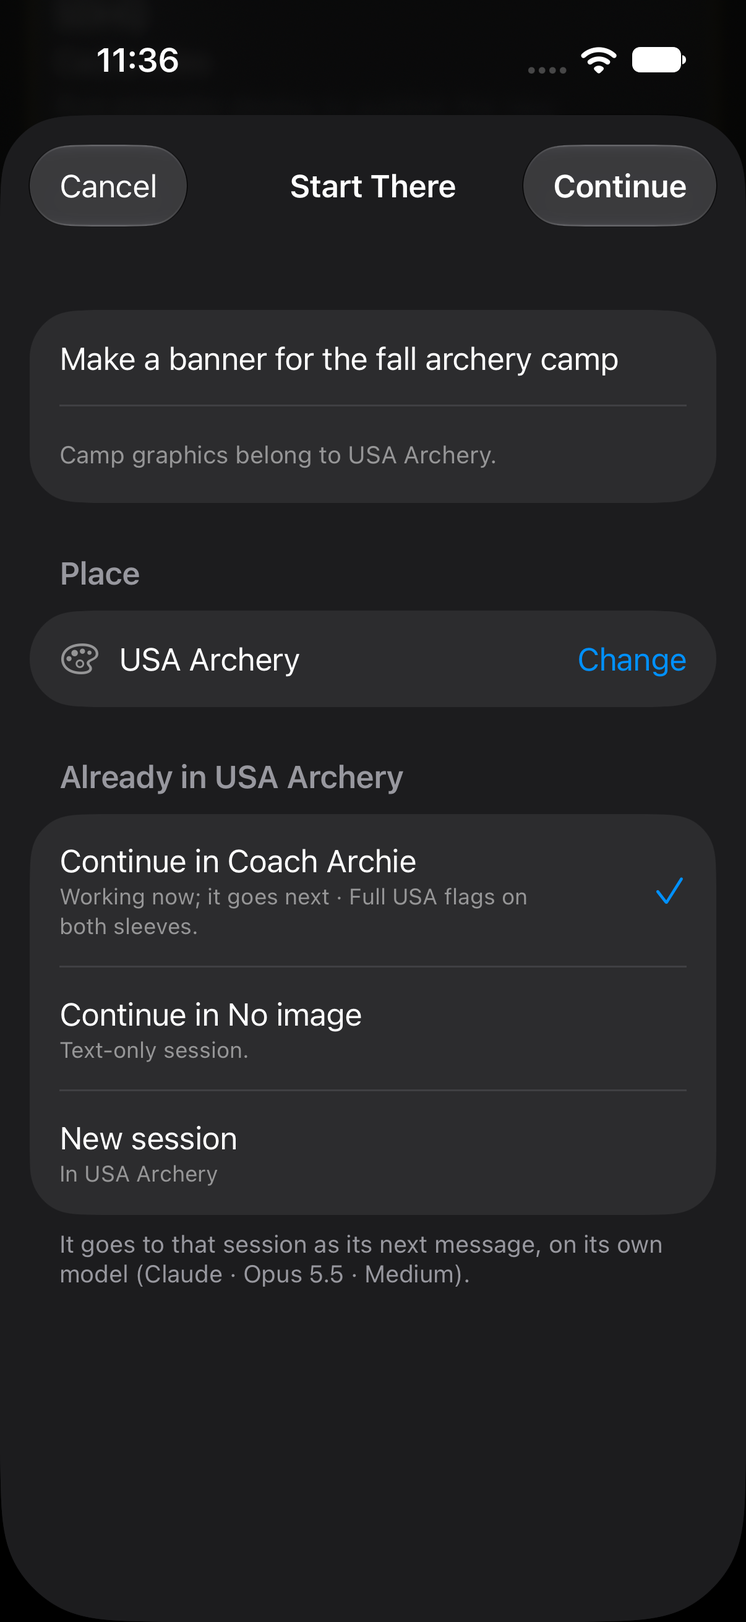
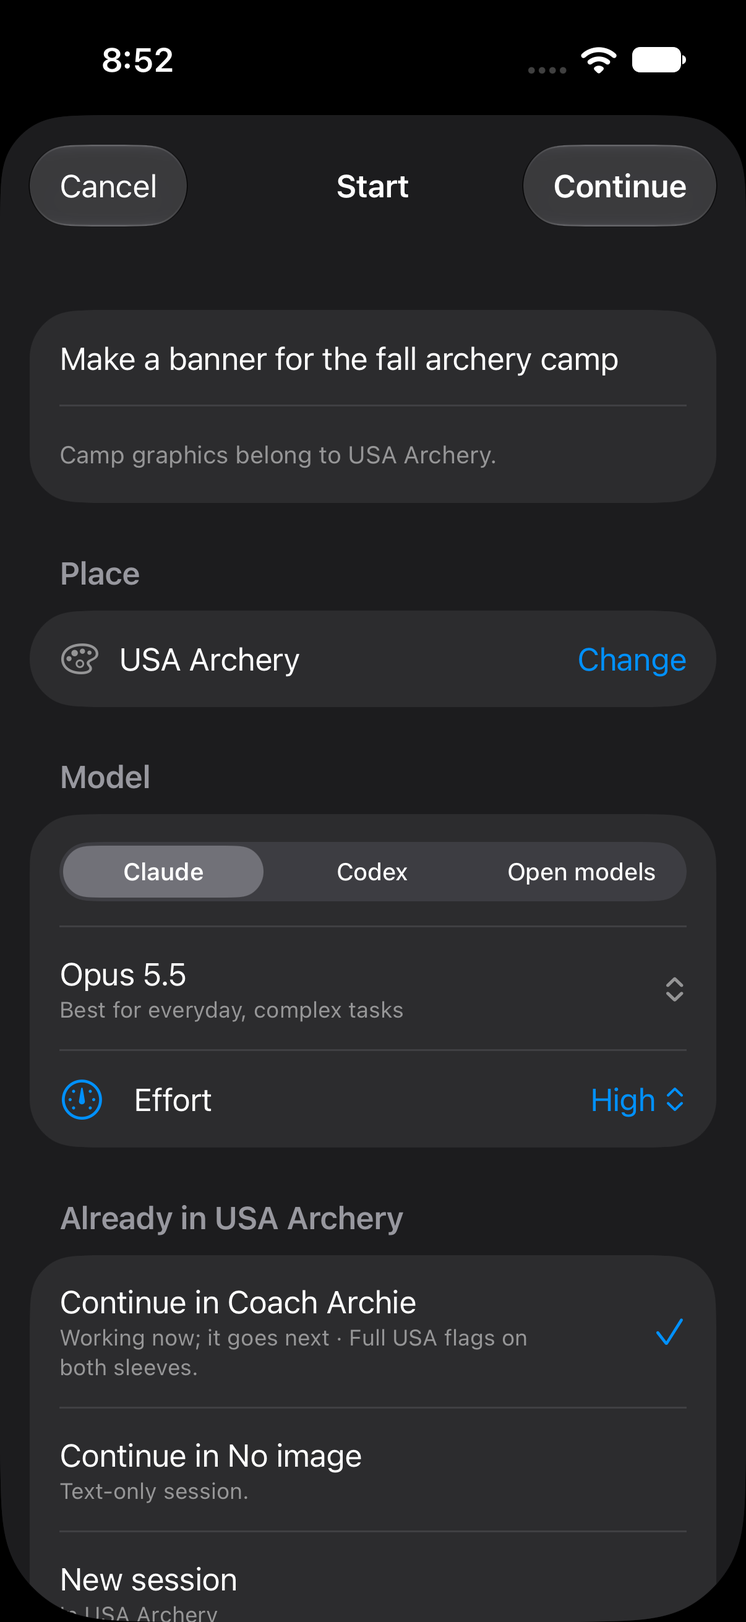
Desk Start: choose the model when continuing too; tests and screenshots
Core: the Start step always shows the provider, model and effort (the
chosen session's own until one is picked); continuing on another model
switches that session before the request is sent.

Tests: test-desk (continueChat with a model switches the session first,
409 for another agent while it works, options for a session untouched,
old bodies unchanged), mac-desk (model above the sessions, follows the
choice, hand pick stays, Continue sends the model), mobile-home-nav
(model row above the sessions, default follows the session, picking one
while continuing sends model + continueChat).
Screenshots: design/desk/phone-start-model.png, mac-start-model.png;
phone-start-sheet.png refreshed.

diff --git a/tests/mobile-home-nav/HomeNavTests.swift b/tests/mobile-home-nav/HomeNavTests.swift
@@ -819,9 +819,9 @@ final class HomeNavTests: XCTestCase {
   XCTAssertEqual(calls.last?["decision"] as? String, "approvedForSession", "the decision goes along")
   XCTAssertEqual(calls.last?["item"] as? String, deskID("approval").lowercased())
  }
- /// Start There: its step shows the place, the sessions already there doing the same work (a
- /// clear match chosen) and New session. Continue sends the request to that session; the Desk
- /// stays, with a note to open it.
+ /// Start There: its step shows the place, the model, the sessions already there doing the same
+ /// work (a clear match chosen) and New session. The model follows the session chosen. Continue
+ /// sends the request to that session; the Desk stays, with a note to open it.
  @MainActor func testDeskStartThere() async throws {
   try await fixture("reset")
   let app=deskApp(); app.launch()
@@ -830,15 +830,40 @@ final class HomeNavTests: XCTestCase {
   XCTAssertTrue(start.waitForExistence(timeout:5)); reveal(start, app); start.tap()
   XCTAssertTrue(app.navigationBars["Start"].waitForExistence(timeout:5), "Start There opens its step, not a session")
   let archie=app.buttons["desk-thread-"+deskID("Coach Archie")], other=app.buttons["desk-thread-963CA311-2496-5A83-9807-3AE28F7E5FB5"], fresh=app.buttons["desk-thread-new"]
-  XCTAssertTrue(archie.waitForExistence(timeout:8) && other.exists && fresh.exists, "Continue in each session like it, and New session")
-  XCTAssertTrue(app.staticTexts["Continue in Coach Archie"].exists && app.staticTexts["USA Archery"].exists, "named, in the place shown")
+  XCTAssertTrue(archie.waitForExistence(timeout:8), "Continue in the session like it")
+  // The model first, under the place: the chosen session's own.
+  let modelRow=app.buttons["model-current"]
+  XCTAssertTrue(modelRow.waitForExistence(timeout:5), "the model shows when continuing too")
+  XCTAssertLessThan(modelRow.frame.maxY, archie.frame.minY, "under the place, above the sessions")
+  let own=expectation(for:NSPredicate(format:"label == %@","Model: Opus 5.5, Best for everyday, complex tasks"),evaluatedWith:modelRow)
+  await fulfillment(of:[own],timeout:5)
+  XCTAssertTrue(app.buttons["desk-start-effort"].exists, "and its effort, in one row")
+  let asked=try await newChatQueries().last
+  XCTAssertEqual(asked?["chat"]?.lowercased(), deskID("Coach Archie").lowercased(), "asked for as that session runs")
+  capture("phone-start-sheet", app)
+  // The sessions below it (the last may sit under the fold).
+  reveal(fresh, app)
+  XCTAssertTrue(other.exists && fresh.exists, "Continue in each session like it, and New session")
+  XCTAssertTrue(app.staticTexts["Continue in Coach Archie"].exists, "named")
   XCTAssertLessThan(archie.frame.maxY, fresh.frame.minY, "Continue in first")
   XCTAssertTrue(archie.isSelected && !fresh.isSelected, "the clear match is chosen")
-  XCTAssertFalse(app.buttons["model-current"].exists, "continuing keeps that session's model")
+  let continueNote=app.staticTexts["desk-start-continue-note"]
+  reveal(continueNote, app)
+  XCTAssertTrue(continueNote.waitForExistence(timeout:5) && continueNote.label.contains("on its own model (Opus 5.5 · High)"), continueNote.label)
+  // Choosing another session: the model follows it.
+  other.tap()
+  try await Task.sleep(for:.milliseconds(800))
+  let followed=try await newChatQueries().last
+  XCTAssertEqual(followed?["chat"]?.lowercased(), "963CA311-2496-5A83-9807-3AE28F7E5FB5".lowercased(), "the model follows the session chosen")
+  XCTAssertTrue(continueNote.label.contains("GPT-6.1-Sol"), continueNote.label)
+  archie.tap()
+  let back=expectation(for:NSPredicate(format:"label CONTAINS %@","on its own model (Opus 5.5 · High)"),evaluatedWith:continueNote)
+  await fulfillment(of:[back],timeout:5)
+  revealUp(modelRow, app)
+  XCTAssertTrue(app.staticTexts["USA Archery"].exists && modelRow.label == "Model: Opus 5.5, Best for everyday, complex tasks", "in the place shown, back on its own model")
   XCTAssertEqual(app.buttons["desk-start-confirm"].label, "Continue")
   let threads=try await deskCalls().last { ($0["action"] as? String)=="threads" }
   XCTAssertEqual(threads?["id"] as? String, deskID("banner").lowercased()); XCTAssertEqual((threads?["place"] as? String)?.lowercased(), uuid("studio").lowercased(), "asked in the place shown")
-  capture("phone-start-sheet", app)
   app.buttons["desk-start-confirm"].tap()
   let note=startedNote(app)
   XCTAssertTrue(note.waitForExistence(timeout:8), "the Desk notes it")
@@ -857,6 +882,49 @@ final class HomeNavTests: XCTestCase {
   note.coordinate(withNormalizedOffset:CGVector(dx:0.93,dy:0.5)).tap()
   XCTAssertTrue(app.staticTexts["Hi! This is Coach Archie."].waitForExistence(timeout:10), "Open opens it")
  }
+ /// Continuing on another model: picked in the step, it stays when the choice changes, the
+ /// footer says the session switches, and Continue sends the model with the session.
+ @MainActor func testDeskContinuePicksModel() async throws {
+  try await fixture("reset")
+  let app=deskApp(); app.launch()
+  XCTAssertTrue(app.buttons[approve].waitForExistence(timeout:20)); deskColumn("todo",app)
+  let start=app.buttons["desk-start-"+deskID("banner")]
+  XCTAssertTrue(start.waitForExistence(timeout:5)); reveal(start, app); start.tap()
+  let archie=app.buttons["desk-thread-"+deskID("Coach Archie")], fresh=app.buttons["desk-thread-new"]
+  XCTAssertTrue(archie.waitForExistence(timeout:8) && archie.isSelected, "continuing the clear match")
+  let modelRow=app.buttons["model-current"]
+  let own=expectation(for:NSPredicate(format:"label == %@","Model: Opus 5.5, Best for everyday, complex tasks"),evaluatedWith:modelRow)
+  await fulfillment(of:[own],timeout:5)
+  modelRow.tap()
+  XCTAssertTrue(modelItem("Sonnet 5",app).waitForExistence(timeout:5), "the menu lists the models")
+  modelItem("Sonnet 5",app).tap()
+  let picked=expectation(for:NSPredicate(format:"label == %@","Model: Sonnet 5, Efficient for routine tasks"),evaluatedWith:modelRow)
+  await fulfillment(of:[picked],timeout:5)
+  let query=try await newChatQueries().last
+  XCTAssertEqual(query?["chat"]?.lowercased(), deskID("Coach Archie").lowercased()); XCTAssertEqual(query?["model"], "sonnet", "as that session would run on it")
+  try await Task.sleep(for:.milliseconds(500))
+  capture("phone-start-model", app)
+  let continueNote=app.staticTexts["desk-start-continue-note"]
+  reveal(continueNote, app)
+  let switching=expectation(for:NSPredicate(format:"label CONTAINS %@","switching it to Sonnet 5 · High"),evaluatedWith:continueNote)
+  await fulfillment(of:[switching],timeout:5)
+  capture("phone-start-model-footer", app)
+  reveal(fresh, app); fresh.tap()
+  XCTAssertTrue(fresh.isSelected, "New session chosen")
+  try await Task.sleep(for:.milliseconds(800))
+  revealUp(modelRow, app)
+  XCTAssertEqual(modelRow.label, "Model: Sonnet 5, Efficient for routine tasks", "a model picked by hand stays when the choice changes")
+  reveal(archie, app); archie.tap()
+  reveal(continueNote, app)
+  XCTAssertTrue(continueNote.waitForExistence(timeout:5) && continueNote.label.contains("switching it to Sonnet 5"), continueNote.label)
+  app.buttons["desk-start-confirm"].tap()
+  let note=startedNote(app)
+  XCTAssertTrue(note.waitForExistence(timeout:8) && note.label.contains("Continued in Coach Archie"), note.label)
+  let body=(try await deskCalls().last)?["body"] as? [String:Any]
+  XCTAssertEqual((body?["continueChat"] as? String)?.lowercased(), deskID("Coach Archie").lowercased(), "Continue sends the session")
+  XCTAssertEqual(body?["agent"] as? String, "claude"); XCTAssertEqual(body?["model"] as? String, "sonnet", "and the model picked")
+  XCTAssertEqual(body?["effort"] as? String, "high", "at the effort shown")
+ }
  /// A new session instead: its model, as compact as Session Settings' (one row, a menu);
  /// Start sends the agent and model picked, and runs it in the background.
  @MainActor func testDeskStartPicksModel() async throws {
@@ -866,10 +934,12 @@ final class HomeNavTests: XCTestCase {
   let start=app.buttons["desk-start-"+deskID("banner")]
   XCTAssertTrue(start.waitForExistence(timeout:5)); reveal(start, app); start.tap()
   let fresh=app.buttons["desk-thread-new"]
-  XCTAssertTrue(fresh.waitForExistence(timeout:8)); fresh.tap()
+  XCTAssertTrue(app.buttons["desk-thread-"+deskID("Coach Archie")].waitForExistence(timeout:8))
+  // New session sits under the model and the sessions like it: below the fold on a phone.
+  reveal(fresh, app)
+  XCTAssertTrue(fresh.exists); fresh.tap()
   let modelRow=app.buttons["model-current"]
-  // A form sheet on an iPad: the row can sit below its fold.
-  for _ in 0..<2 where !modelRow.waitForExistence(timeout:4) { app.swipeUp() }
+  revealUp(modelRow, app)
   XCTAssertTrue(modelRow.waitForExistence(timeout:5), "New session: its model")
   XCTAssertEqual(modelRow.label, "Model: Opus 5.5, Best for everyday, complex tasks", "as a new session there would start")
   XCTAssertEqual(app.buttons["desk-start-confirm"].label, "Start")
@@ -1382,6 +1452,8 @@ final class HomeNavTests: XCTestCase {
    "Galley":"B5BBD354-BAAF-5AB3-B7FE-3ACD63B384E2","Coach Archie":"F982B462-68F5-509B-8E10-9946C3F0A1B1"][name]!
  }
  func deskCalls() async throws -> [[String:Any]] { try await fixture("desk-calls",method:"GET") as? [[String:Any]] ?? [] }
+ /// Each new-chat-options query the app made, oldest first.
+ func newChatQueries() async throws -> [[String:String]] { try await fixture("new-chat-options",method:"GET") as? [[String:String]] ?? [] }
  /// A model in the model row's menu (its label may carry the detail line after the name).
  @MainActor func modelItem(_ name:String,_ app:XCUIApplication) -> XCUIElement {
   app.descendants(matching:.any).matching(NSPredicate(format:"(elementType == %d OR elementType == %d OR elementType == %d) AND (label == %@ OR label BEGINSWITH %@)",

diff --git a/tests/mac-desk/main.swift b/tests/mac-desk/main.swift
@@ -171,9 +171,13 @@ func check(_ ok: Bool, _ what: String) { print(ok ? "PASS" : "FAIL", what); if !
     let sameWork = Companion.DeskThread(id: plan.id, title: "Mac Desk page", detail: "Add the Desk as Home's first page", settings: "Claude · Opus 5.5 · High",
                                         updatedAt: now.addingTimeInterval(-300), isRunning: true, match: "clear")
     let similar = Companion.DeskThread(id: sdhq.id, title: "Menu refresh", settings: "Codex · GPT-6.1-Sol", updatedAt: now.addingTimeInterval(-900), isRunning: false, match: "possible")
-    func options(_ picks: Companion.SettingsRequest) -> Companion.ChatOptions {
-        let codex = picks.backend == "codex"
-        return .init(backend: codex ? "codex" : "claude", model: picks.model ?? (codex ? "" : "opus"), effort: picks.effort ?? "medium",
+    // `chat`: as that session would run with the picks (its own model: the same work's Opus at High,
+    // the similar one's GPT-6.1-Sol); else a new session's.
+    func options(_ picks: Companion.SettingsRequest, chat: UUID? = nil) -> Companion.ChatOptions {
+        let own = chat == sameWork.id ? ("claude", "opus", "high") : chat == similar.id ? ("codex", "gpt-6.1-sol", "medium") : ("claude", "opus", "medium")
+        let backend = picks.backend ?? own.0
+        let codex = backend == "codex"
+        return .init(backend: backend, model: picks.model ?? (backend == own.0 ? own.1 : codex ? "" : "opus"), effort: picks.effort ?? (backend == own.0 ? own.2 : "medium"),
                      claudeModels: [.init(id: "opus", name: "Opus 5.5", detail: "Best for everyday, complex tasks", efforts: ["low", "medium", "high"], defaultEffort: "medium"),
                                     .init(id: "sonnet", name: "Sonnet 5", detail: "Fast", efforts: ["low", "medium", "high"], defaultEffort: "medium")],
                      codexModels: [.init(id: "", name: "Codex default", detail: "", efforts: [], defaultEffort: nil),
@@ -259,7 +263,7 @@ func check(_ ok: Bool, _ what: String) { print(ok ? "PASS" : "FAIL", what); if !
             }
             return try JSON.value(id == badge.id ? [sameWork, similar] : [Companion.DeskThread]())
         case "options":
-            return try JSON.value(options((try? body["picks"]?.decode(Companion.SettingsRequest.self)) ?? .init()))
+            return try JSON.value(options((try? body["picks"]?.decode(Companion.SettingsRequest.self)) ?? .init(), chat: body["chat"]?.string.flatMap(UUID.init(uuidString:))))
         default: throw RuntimeFailure("unsupported_operation")
         }
     }
@@ -536,10 +540,18 @@ func check(_ ok: Bool, _ what: String) { print(ok ? "PASS" : "FAIL", what); if !
     check(asked?["id"]?.string == badge.id.uuidString && (try? asked?["place"]?.decode(Companion.DeskPlace.self)) == geekify, "the step asks for threads in the place chosen")
     check((try? sent.last { $0["action"]?.string == "options" }?["place"]?.decode(Companion.DeskPlace.self)) == geekify, "and a new session's options there")
     check(frame("thread:\(sameWork.id)") != nil && frame("thread:\(similar.id)") != nil && frame("thread:new") != nil, "Continue in each session like the work, and New session")
-    check(step.continuing == sameWork.id && frame("startModel") == nil, "a clear match is chosen; continuing needs no model")
+    check(step.continuing == sameWork.id && frame("startProvider") != nil && frame("startModel") != nil && frame("startEffort") != nil
+          && step.options?.model == "opus" && step.options?.effort == "high", "a clear match is chosen; the model row shows its own model and effort")
+    check(sent.last { $0["action"]?.string == "options" }?["chat"]?.string == sameWork.id.uuidString, "asked for as that session runs")
+    if let m = frame("startModel"), let t = frame("thread:\(sameWork.id)") { check(m.maxY <= t.minY, "the model sits under the place, above the sessions") }
+    check(step.continueNote == "It goes to that session as its next message, on its own model (Opus 5.5 \u{00B7} High)." && frame("startContinueNote") != nil,
+          "the footer says it goes on its own model (\(step.continueNote ?? "none"))")
     if let a = frame("thread:\(sameWork.id)"), let b = frame("thread:new") { check(a.maxY <= b.minY, "Continue in comes before New session") }
+    try await click("thread:\(similar.id)")
+    check(step.continuing == similar.id && step.options?.backend == "codex" && step.options?.model == "gpt-6.1-sol", "the model follows the session chosen")
     try await click("thread:new")
-    check(step.continuing == nil && frame("startProvider") != nil && frame("startModel") != nil, "New session: the agent and its model")
+    check(step.continuing == nil && frame("startProvider") != nil && frame("startModel") != nil && step.options?.model == "opus" && step.options?.effort == "medium"
+          && step.continueNote == nil, "New session: a new session's model there")
     try snapshot("desk-start-new")
     try await click("thread:\(sameWork.id)")
     try await click("startConfirm")
@@ -552,6 +564,30 @@ func check(_ ok: Bool, _ what: String) { print(ok ? "PASS" : "FAIL", what); if !
     check(desk.startedNote?.chat == sameWork.id && desk.startedNote?.continued == true && desk.startedNote?.name == "Mac Desk page" && model.selectedID == selectedBefore,
           "it runs in the background: a note says where, and nothing opens")
     check(!desk.sections(in: model).incoming.contains { $0.id == badge.id }, "a started request leaves the Desk")
+    // Continue on another model: picked here, it stays when the choice changes, and goes with start.
+    service.incoming.insert(badge, at: 1); desk.load(service)
+    let switchStep = DeskStartStep(request: badge, desk: desk)
+    try await render(AnyView(DeskStartPopover(step: switchStep) {}.background(Color(nsColor: .windowBackgroundColor))), 400, 470, "desk-start-continue-model")
+    check(switchStep.continuing == sameWork.id && switchStep.options?.model == "opus", "continuing: its own model first")
+    await switchStep.pick(switchStep.change(picking: "gpt-6.1-sol", of: "codex"))
+    check(switchStep.blocked && switchStep.continueNote?.contains("working now") == true, "another agent for a session that's working: waits, Continue off")
+    await switchStep.pick(switchStep.change(picking: "sonnet", of: "claude"))
+    check(sent.last { $0["action"]?.string == "options" }?["chat"]?.string == sameWork.id.uuidString && switchStep.options?.model == "sonnet"
+          && !switchStep.blocked && switchStep.switching, "picking a model while continuing: as that session would run on it")
+    try await Task.sleep(for: .milliseconds(300))
+    check(switchStep.continueNote == "It goes to that session as its next message, switching it to Sonnet 5 \u{00B7} High.",
+          "the footer says it switches (\(switchStep.continueNote ?? "none"))")
+    try snapshot("desk-start-continue-model")
+    try await click("thread:new")
+    check(switchStep.continuing == nil && switchStep.options?.model == "sonnet", "a model picked by hand stays when the choice changes")
+    try await click("thread:\(sameWork.id)")
+    let startsBefore = sent.filter { $0["action"]?.string == "start" }.count
+    try await click("startConfirm")
+    for _ in 0..<20 where sent.filter({ $0["action"]?.string == "start" }).count == startsBefore { try await Task.sleep(for: .milliseconds(100)) }
+    let switchStart = sent.last { $0["action"]?.string == "start" }
+    check(switchStart?["continueChat"]?.string == sameWork.id.uuidString && switchStart?["agent"]?.string == "claude" && switchStart?["model"]?.string == "sonnet"
+          && switchStart?["effort"]?.string == "high", "Continue sends the session and the model picked (\(String(describing: switchStart)))")
+    try await Task.sleep(for: .milliseconds(300))
     try await render(AnyView(DeskView().background(Color(nsColor: .windowBackgroundColor))), 1080, 700, "desk-started-note")
     check(frame("startedNote") != nil, "the Desk shows the note, with Open")
     // A new session with the model picked: agent and model go with start.

diff --git a/tests/desk/main.swift b/tests/desk/main.swift
@@ -32,8 +32,11 @@ func check(_ ok: @autoclosure () throws -> Bool, _ text: String) throws {
     server.model = model
     let desk = DeskStore.shared
     var sent: [(chat: UUID, text: String)] = []
+    // What each message went out on: switching a continued session comes first.
+    var sentOn: [String] = []
     desk.sendFirstMessage = { session, text in
         sent.append((session.id, text))
+        sentOn.append("\(session.record.backend.rawValue) \(session.record.backend == .codex ? session.record.codex?.model ?? "" : session.record.model) \(session.record.backend == .codex ? session.record.codex?.effort ?? "" : session.record.effort)")
         _ = session.appendItem(DisplayItem(kind: .user, text: text))
     }
     var announced: [Companion.Desk] = []
@@ -528,8 +531,44 @@ func check(_ ok: @autoclosure () throws -> Bool, _ text: String) throws {
     try check(desk.openTask(for: side.summary.id)?.id == followUp.id && desk.requests.contains { $0.id == highlights.id },
               "linked to that thread; the task it carried goes back to To do")
     sideSession.isRunning = false
+    try check(sentOn.last == "claude opus medium" && sideSession.record.model == "opus", "continuing without a model: on its own")
+
+    // Continue on another model: the step shows what the session would run on, untouched; Continue
+    // switches it (as Session Settings would) before the request is sent.
+    let exporting = try runtime.insert(record("Highlights export", items: [DisplayItem(kind: .user, text: "Export them"), DisplayItem(kind: .assistant, text: "Exported.", phase: .final)]))
+    func optionsQuery(_ query: [String: String]) throws -> Companion.ChatOptions {
+        try Companion.decoder.decode(Companion.ChatOptions.self, from: call("GET", "/v1/new-chat-options", query: query).body)
+    }
+    let own = try optionsQuery(["chat": exporting.id.uuidString])
+    try check(own.backend == "claude" && own.model == "opus" && own.effort == "medium", "options for a session: its own model (\(own.model) \(own.effort))")
+    let wouldRun = try optionsQuery(["chat": exporting.id.uuidString, "model": "sonnet", "effort": "high"])
+    try check(wouldRun.model == "sonnet" && wouldRun.effort == "high" && exporting.record.model == "opus" && exporting.record.effort == "medium" && exporting.items.count == 2,
+              "with picks: what it would run on; the session isn't changed")
+    let wouldSwitch = try optionsQuery(["chat": exporting.id.uuidString, "backend": "codex", "model": "gpt-6.1-sol"])
+    try check(wouldSwitch.backend == "codex" && wouldSwitch.model == "gpt-6.1-sol" && exporting.record.backend == .claude && exporting.record.pendingHandoff == nil,
+              "another agent's model: as switched, the session still on its own")
+    try check(call("GET", "/v1/new-chat-options", query: ["chat": UUID().uuidString]).status == 404, "options for a session that's gone: 404")
+    try check(try desk.options(for: DeskStore.loose, picks: .init(effort: "low"), chat: exporting.id).effort == "low", "the Desk's options for a session take the picks")
+    let exportTask = try deskOf(add("Tighten the highlights export", place: "loose")).incoming[0]
+    exporting.isRunning = true
+    let busyAgent = call("POST", "/v1/desk/\(exportTask.id)/start", try encode(Companion.DeskStartRequest(agent: "codex", model: "gpt-6.1-sol", continueChat: exporting.id)))
+    try check(busyAgent.status == 409 && exporting.record.backend == .claude && desk.requests.contains { $0.id == exportTask.id } && sent.last?.chat != exporting.id,
+              "working: another agent waits (409), nothing changes or is sent")
+    let switched = call("POST", "/v1/desk/\(exportTask.id)/start", try encode(Companion.DeskStartRequest(agent: "claude", model: "sonnet", effort: "high", continueChat: exporting.id)))
+    try check(switched.status == 200 && exporting.record.model == "sonnet" && exporting.record.effort == "high" && sent.last?.chat == exporting.id && sentOn.last == "claude sonnet high",
+              "continue with a model: the session switches to it before the request is sent (\(sentOn.last ?? ""))")
+    try check(desk.openTask(for: exporting.id)?.id == exportTask.id && runtime.sessions.count == before + 1, "linked to it; nothing new starts")
+    exporting.isRunning = false
+    try desk.unlink(exportTask.id); try desk.ignore(exportTask.id)
+    let idle = try runtime.insert(record("Highlights import", items: [DisplayItem(kind: .user, text: "Import them"), DisplayItem(kind: .assistant, text: "Imported.", phase: .final)]))
+    let importTask = try deskOf(add("Speed up the highlights import", place: "loose")).incoming[0]
+    let toCodex = call("POST", "/v1/desk/\(importTask.id)/start", try encode(Companion.DeskStartRequest(agent: "codex", model: "gpt-6.1-sol", continueChat: idle.id)))
+    try check(toCodex.status == 200 && idle.record.backend == .codex && idle.record.codex?.model == "gpt-6.1-sol" && sentOn.last == "codex gpt-6.1-sol "
+              && idle.record.pendingHandoff != nil, "between replies, another agent: switched (caught up), then sent (\(sentOn.last ?? ""))")
+    try desk.unlink(importTask.id); try desk.ignore(importTask.id)
+    let sessionCount = runtime.sessions.count
     try check(call("POST", "/v1/desk/\(close.id)/start", try encode(Companion.DeskStartRequest(continueChat: UUID()))).status == 404
-              && desk.requests.contains { $0.id == close.id } && runtime.sessions.count == before, "continuing a session that's gone: refused, and kept")
+              && desk.requests.contains { $0.id == close.id } && runtime.sessions.count == sessionCount, "continuing a session that's gone: refused, and kept")
     // The model chosen: applied before the first message.
     let picked = call("POST", "/v1/desk/\(close.id)/start", try encode(Companion.DeskStartRequest(place: DeskStore.loose, agent: "claude", model: "sonnet", effort: "high")))
     let pickedChat = runtime.session(try Companion.decoder.decode(Companion.ChatDetail.self, from: picked.body).summary.id)
@@ -579,6 +618,10 @@ func check(_ ok: @autoclosure () throws -> Bool, _ text: String) throws {
               "socket threads, in the place given (an agent may look)")
     let socketOptions = try await ui.request("desk", body: ["action": "options", "place": try .value(DeskStore.loose), "picks": ["backend": "codex"]]).decode(Companion.ChatOptions.self)
     try check(socketOptions.backend == "codex", "socket options: a new session's, with the picks")
+    let socketChatOptions = try await ui.request("desk", body: ["action": "options", "place": try .value(DeskStore.loose), "chat": .string(dogear.id.uuidString),
+                                                                "picks": ["effort": "high"]]).decode(Companion.ChatOptions.self)
+    try check(socketChatOptions.model == dogear.record.model && socketChatOptions.effort == "high" && dogear.record.effort == "medium",
+              "socket options with chat: as that session would run, untouched")
     let fromAgent = try await agent.request("desk", body: ["action": "add", "text": "Tidy the PlayCase Arcade level list for TestFlight", "source": "you"]).decode(Companion.Desk.self)
     try check(fromAgent.incoming[0].source == "claude" && fromAgent.incoming[0].proposed?.id == playcase.id, "an agent's add is from Claude, never from you")
     try await wait("desk.changed after the add") { changes.contains { $0.incoming.first?.id == fromAgent.incoming[0].id } }

diff --git a/tests/mobile-home-nav/server.py b/tests/mobile-home-nav/server.py
@@ -86,7 +86,7 @@ def work_summary(key):
 # clear match, working; No image, possible). Other places and requests have none.
 def desk_threads(id,place):
  if id.lower()!=cid('desk-banner') or (place or '').lower()!=cid('studio'):return []
- return [{'id':cid('Coach Archie'),'title':'Coach Archie','detail':'Full USA flags on both sleeves.','settings':'Claude · Opus 5.5 · Medium','updatedAt':stamp(30),'isRunning':'Coach Archie' in RUNNING,'match':'clear'},
+ return [{'id':cid('Coach Archie'),'title':'Coach Archie','detail':'Full USA flags on both sleeves.','settings':'Claude · Opus 5.5 · High','updatedAt':stamp(30),'isRunning':'Coach Archie' in RUNNING,'match':'clear'},
   {'id':cid('No image'),'title':'No image','detail':'Text-only session.','settings':'Codex · GPT-6.1-Sol','updatedAt':stamp(600),'isRunning':False,'match':'possible'}]
 # Link a thread's list (all=1): every thread in USA Archery; Coach Archie already carries a task.
 def desk_all_threads(id,place):
@@ -462,7 +462,12 @@ class Handler(http.server.BaseHTTPRequestHandler):
    q=dict(urllib.parse.parse_qsl(urllib.parse.urlparse(self.path).query))
    NEWCHAT.append(q)
    o=detail(cid('SDHQ'))['options']
-   if q.get('backend')=='codex':o.update({'backend':'codex','model':'','mode':'fullAccess','modes':[{'id':'readOnly','title':'Read only','detail':'Can look at files but not change them','systemImage':'eye','isUnrestricted':False},{'id':'ask','title':'Ask for approval','detail':'Always ask to edit external files and use the internet','systemImage':'hand.raised','isUnrestricted':False},{'id':'fullAccess','title':'Full access','detail':'Unrestricted access to the internet and any file on your computer','systemImage':'exclamationmark.shield','isUnrestricted':True}],'codexModels':[{'id':'','name':'Codex default','detail':'','efforts':['low','medium','high'],'defaultEffort':'medium'},{'id':'gpt-6.1-sol','name':'GPT-6.1-Sol','detail':'','efforts':['low','medium','high'],'defaultEffort':'medium'}]})
+   # chat=<id>: as that session would run with the picks. Coach Archie runs Opus at High; No image, Codex's GPT-6.1-Sol.
+   chat=(q.get('chat') or '').lower()
+   if chat==cid('Coach Archie'):o['effort']='high'
+   own=chat==cid('No image') and not q.get('backend')
+   if q.get('backend')=='codex' or own:o.update({'backend':'codex','model':'','mode':'fullAccess','modes':[{'id':'readOnly','title':'Read only','detail':'Can look at files but not change them','systemImage':'eye','isUnrestricted':False},{'id':'ask','title':'Ask for approval','detail':'Always ask to edit external files and use the internet','systemImage':'hand.raised','isUnrestricted':False},{'id':'fullAccess','title':'Full access','detail':'Unrestricted access to the internet and any file on your computer','systemImage':'exclamationmark.shield','isUnrestricted':True}],'codexModels':[{'id':'','name':'Codex default','detail':'','efforts':['low','medium','high'],'defaultEffort':'medium'},{'id':'gpt-6.1-sol','name':'GPT-6.1-Sol','detail':'','efforts':['low','medium','high'],'defaultEffort':'medium'}]})
+   if own:o['model']='gpt-6.1-sol'
    if q.get('model'):o['model']=q['model']
    if q.get('effort'):o['effort']=q['effort']
    if q.get('openModel'):o['openModel']=q['openModel']
